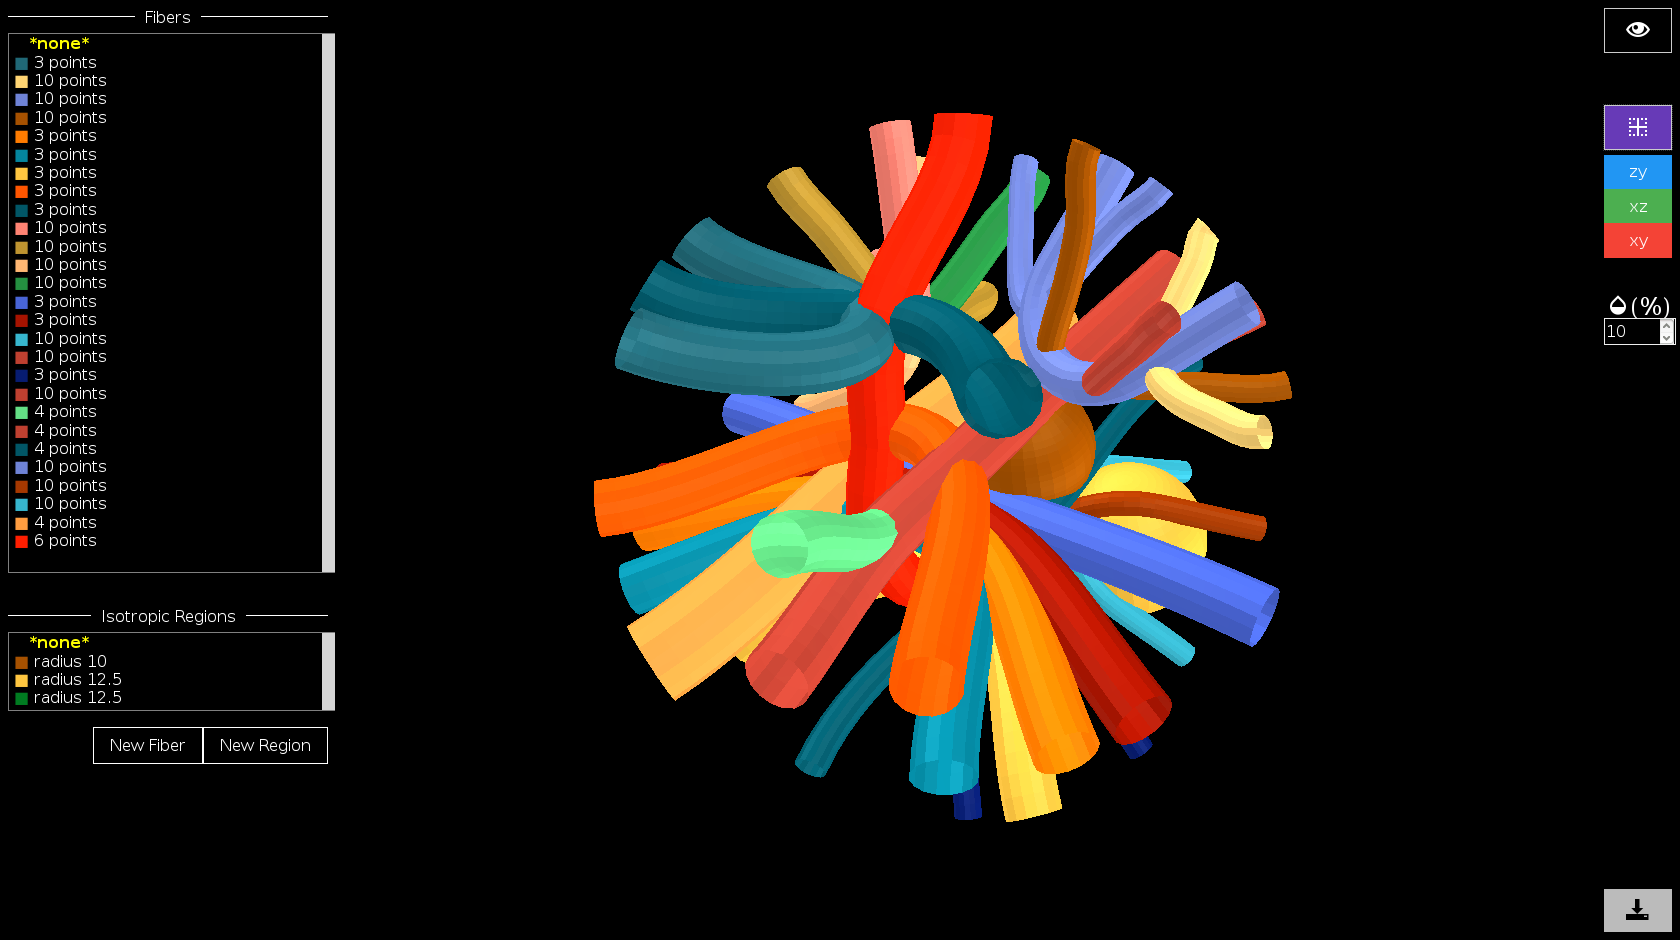
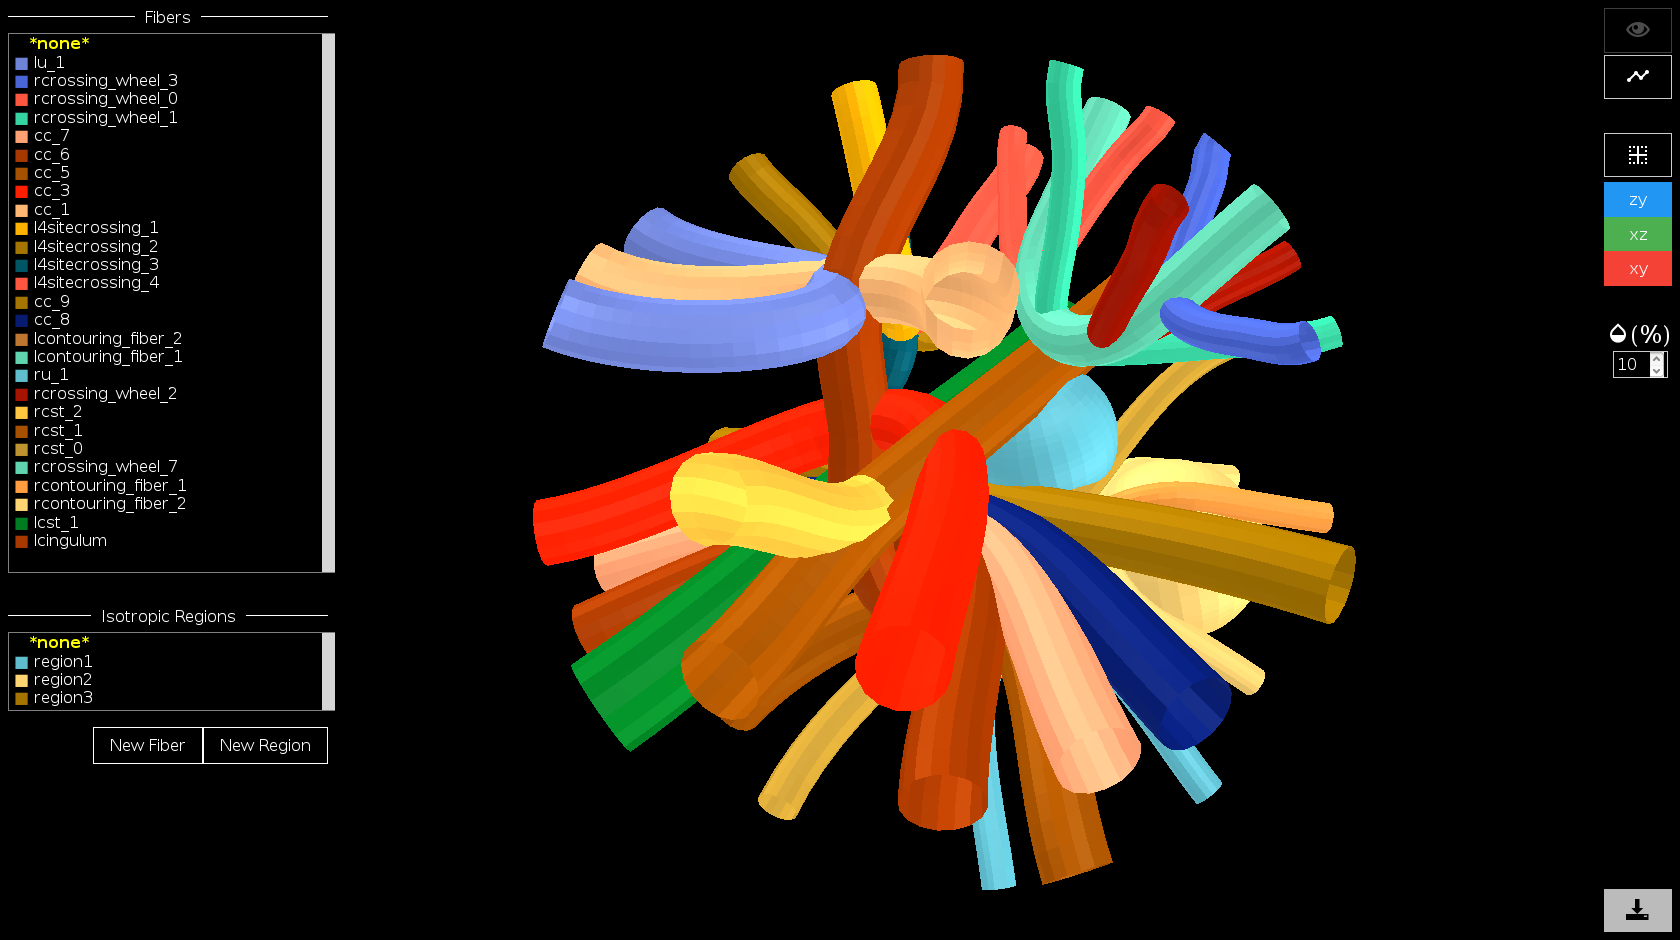
Solved a bug regarding names. Updated user documentation.

diff --git a/doc/user/index.html b/doc/user/index.html
@@ -471,10 +471,14 @@ and a 1-decimal precision by default.</p>
 <p>The editable elements in a region concern:</p>
 <blockquote>
 <ul class="simple">
+<li>Its name</li>
+<li>Its color</li>
 <li>Its radius</li>
 <li>Its position (x y z)</li>
 </ul>
 </blockquote>
+<p>Name and color are editable from the title fields. Click to the square
+representing the color for deploying color editing interface.</p>
 <p>Drag and Drop interactive controls for editing the position of the isotropic
 region can be deployed by clicking the button under the position fields.
 When drag and drop controls are active it stays yellow (as shown in the picture)
@@ -487,6 +491,8 @@ and it can be turned off at any moment by clicking over again.</p>
 <p>The editable elements in a fiber concern:</p>
 <blockquote>
 <ul class="simple">
+<li>Its name</li>
+<li>Its color</li>
 <li>Its radius</li>
 <li>Its tangent-computing mode:<ul>
 <li>Symmetric</li>
@@ -496,6 +502,8 @@ and it can be turned off at any moment by clicking over again.</p>
 </li>
 </ul>
 </blockquote>
+<p>Name and color are editable from the title fields. Click to the square
+representing the color for deploying color editing interface.</p>
 <p>A selection list for the fibers' control points is available
 at the bottom.
 Hovering those will also highglight them in the scene to help identifying.</p>
@@ -620,7 +628,7 @@ Web Designer for further edition.</p>
 <p>Phantomαs Web Designer is open source and may be
 <a class="reference external" href="https://github.com/ecaruyer/phantomas-web">downloaded and forked on GitHub</a>. Pull Requests are welcome!</p>
 <center><br><br><br><hr class="docutils" />
-<p>This document was generated on 2017-06-08 at 11:47.</p>
+<p>This document was generated on 2017-06-09 at 16:54.</p>
 </div>
 </div>
 </body>

diff --git a/gui/handlers.js b/gui/handlers.js
@@ -207,8 +207,6 @@ function newCPclick(fiber, cp) {
   exitCPedit();
   cpSelectClick(fiber, cp + 1);
   selectOption(document.getElementById("cpSelector"), cp + 2);
-  document.getElementById("guiFiberTitle").innerHTML = phantom.fibers.source[guiStatus.editingFiber].controlPoints.length + " Points";
-  document.getElementById('fiberSelector').childNodes[guiStatus.editingFiber + 1].childNodes[1].innerHTML = phantom.fibers.source[guiStatus.editingFiber].controlPoints.length + " points";
 }
 
 function newCPonmouseover(fiber, cp) {

diff --git a/gui/regionedit.js b/gui/regionedit.js
@@ -85,8 +85,6 @@ function regionEdit(index) {
   radiusvalue.onchange = function() {
     this.value = roundToPrecision(Math.max(1 / (10 * precision), Math.abs(this.value))); //Radius cannot be negative, must be at least precision value.
     phantom.isotropicRegions.source[index].setRadius(this.value);
-    // Update the radius value in the region selector list
-    document.getElementById('regionSelector').childNodes[index + 1].childNodes[1].innerHTML = 'radius ' + this.value;
   };
   radiusvalue.onkeyup = nameInput.onkeyup;
 

diff --git a/doc/user/source.rst b/doc/user/source.rst
@@ -121,9 +121,14 @@ Editing an Isotropic Region
 
 The editable elements in a region concern:
 
+  - Its name
+  - Its color
   - Its radius
 
   - Its position (x y z)
+
+Name and color are editable from the title fields. Click to the square
+representing the color for deploying color editing interface.
 
 Drag and Drop interactive controls for editing the position of the isotropic
 region can be deployed by clicking the button under the position fields.
@@ -139,6 +144,8 @@ When entering fiber edition mode, its structure will feature in the scene.
 
 The editable elements in a fiber concern:
 
+  - Its name
+  - Its color
   - Its radius
 
   - Its tangent-computing mode:
@@ -147,6 +154,9 @@ The editable elements in a fiber concern:
     + Incoming
 
     + Outgoing
+
+Name and color are editable from the title fields. Click to the square
+representing the color for deploying color editing interface.
 
 A selection list for the fibers' control points is available
 at the bottom.
